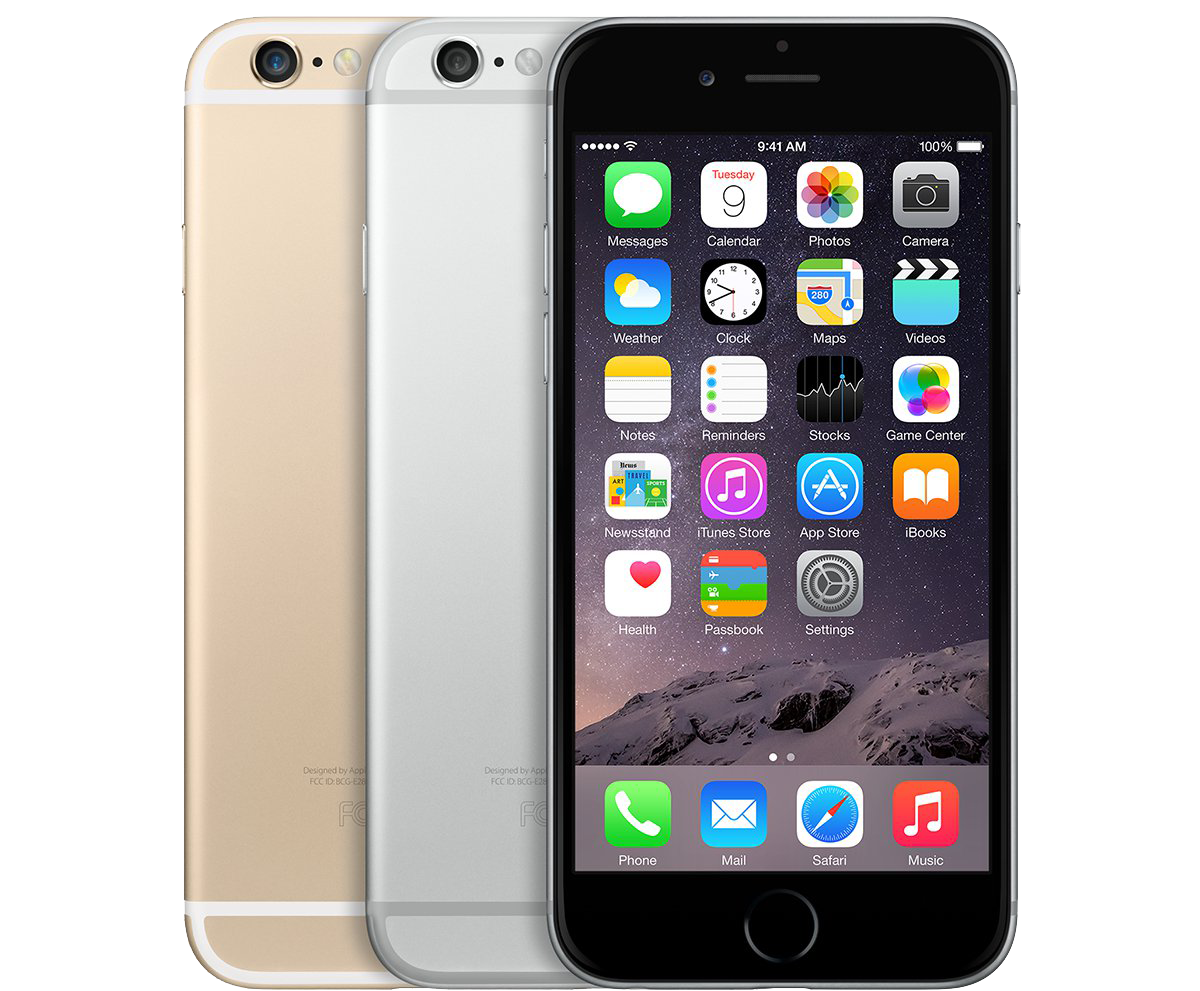
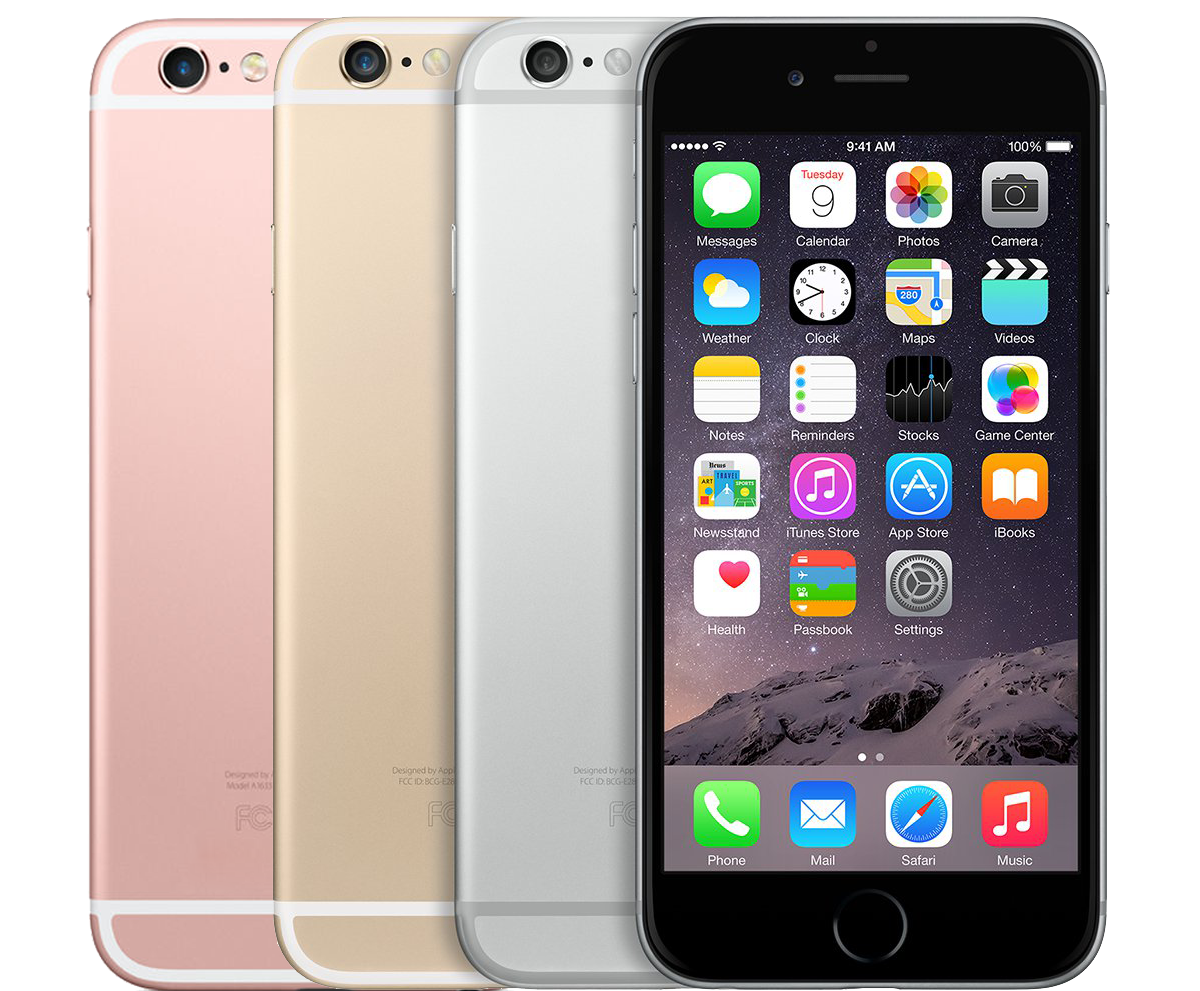
iphone6

diff --git a/iphone6s/index.html b/iphone6s/index.html
@@ -2,7 +2,7 @@
 <html lang="en">
 
 <head>
-    <title>Iphone6</title>
+    <title>Iphone6s</title>
     <meta charset="utf-8" />
     <meta name="apple-mobile-web-app-capable" content="yes" />
     <meta http-equiv="X-UA-Compatible" content="IE=edge,chrome=1">
@@ -23,9 +23,10 @@
                 <div class="five columns">
                     <div class="row">
                         <div>
-                            <h1>iPhone 6</h1>
-                            <h2>16GB | 64GB | 128GB</h3>
+                            <h1>iPhone 6s</h1>
+                            <h2>16GB| 64GB | 128GB</h3>
                             <div class="dotter">
+                                <div class="dot-ii"></div>
                                 <div class="dot-ii"></div>
                                 <div class="dot-ii"></div>
                                 <div class="dot-ii"></div>
@@ -36,6 +37,25 @@
             </div>
         </div>
         <!-- main -->
+         <div class="gift c-gray">
+            <div class="row">
+                <div class="six columns">
+                    <div class="row">
+                    <div>
+                        <div class="with-i">
+                            <h1>Free Gift</h1><img src="check.png" alt="locked" class="ico right">
+                        </div>
+                    </div>
+                    <h4>1 x Original Apple iPhone Lightning to USB Cable</h4>
+                    <h3 style="font-family: 'Roboto Black'; font-size: 150%">Worth AU $29.00</h3>
+                    <h4>1 x Tempered Glass</h4>
+                </div>
+                </div>
+                <div class="six columns content-ii">
+                    <img src="freebies.png" alt="gift" class="u-max-full-width">
+                </div>
+            </div>
+        </div>
         <!-- unlocked -->
         <div class="unlocked brown">
             <div class="row">
@@ -119,25 +139,7 @@
         </div>
         <!-- package -->
         <!-- gift -->
-        <div class="gift c-gray">
-            <div class="row">
-                <div class="six columns">
-                    <div class="row">
-                    <div>
-                        <div class="with-i">
-                            <h1>Free Gift</h1><img src="check.png" alt="locked" class="ico right">
-                        </div>
-                    </div>
-                    <h4>1 x Original Apple iPhone Lightning to USB Cable</h4>
-                    <h3 style="font-family: 'Roboto Black'; font-size: 150%">Worth AU $29.00</h3>
-                    <h4>1 x Tempered Glass</h4>
-                </div>
-                </div>
-                <div class="six columns content-ii">
-                    <img src="freebies.png" alt="gift" class="u-max-full-width">
-                </div>
-            </div>
-        </div>
+       
         <!-- gift -->
         <!-- specs -->
         <div class="specs">

diff --git a/iphone6s/style.css b/iphone6s/style.css
@@ -100,11 +100,12 @@ ul {
 .content-ii{ text-align: center; }
 .dash{ width:20px; height:5px; background-color:#878887; }
 
-.dotter{ width:50%; float: left; }
+.dotter{ width:70%; float: left; }
 .dotter .dot-ii{ height:75px; width:75px; display: inline-block; border-radius: 50%; margin:2% 1%;}
-.dotter .dot-ii:first-child{ background-color: #989999; }
+.dotter .dot-ii:first-child{ background-color: #999999; }
 .dotter .dot-ii:nth-child(2){ background-color: #DDDDDD; }
-.dotter .dot-ii:last-child{ background-color: #EEDBC6; }
+.dotter .dot-ii:nth-child(3){ background-color: #EEDDCC; }
+.dotter .dot-ii:last-child{ background-color: #FFCCCC; }
 
 .main .five.columns,
 .unlocked .five.columns,
